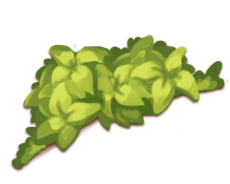
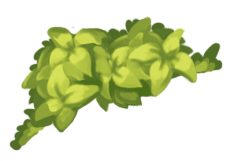
Add leaf shadow layer and rustle SFX to Face I
- Face I: split the moveable leaves' shadow into its own layer that skews half
  as much as the leaves, stacked stone < shadow < engraved 4 < leaves so the
  digit reads as cut into shadowed stone
- Face I: leaf-move rustle SFX on the skew (true pitch on lift, pitched down on
  return), a low-passed cloth foley kept subtle
- Reposition the moveable leaves to the updated PSD bounds
- Re-export the base without the moveable leaves or their shadow; warm both new
  textures before the reveal

Claude-Session: https://claude.ai/code/session_01Q6PLZY4FeeRpwUcSDqktu9

Changed region(s): [[0.0307, 0.0932, 1.0, 0.9317]]

diff --git a/paulmartin.dev/src/machine/faces/FaceI.css b/paulmartin.dev/src/machine/faces/FaceI.css
@@ -84,20 +84,55 @@
 }
 
 /* An engraved "4" cut into the stone behind the leaves, centred on the leaf mass.
-   z-index 1 puts it under the leaves layer (z-index 2), so at rest the foliage
-   covers the digit and only its lower stem pokes out below the leaves; skew the
-   leaves aside and the whole 4 is revealed. Uses the shared .machine-carve etch. */
+   Stacking is stone < shadow (z1) < this engraving (z2) < leaves (z3): the leaf
+   shadow sits under the digit, so the engraving reads as cut into shadowed stone,
+   and at rest the foliage covers the digit with only its lower stem poking out;
+   skew the leaves aside and the whole 4 is revealed. Uses the shared .machine-carve
+   etch, whose translucent fill lets the shadow beneath darken it. */
 .face1-clue4 {
   position: absolute;
   /* Centred on the leaf-mass collider (its centre x ~= 9.7%). */
   left: 10.3%;
   top: 20.55%;
   transform: translateX(-50%);
-  z-index: 1;
+  z-index: 2;
   font-family: var(--display, serif);
   font-weight: 700;
   font-size: calc(var(--face-h) * 0.0612);
   line-height: 1;
+}
+
+/* The leaves' cast shadow, its own layer (lifted out of the base) so it can move.
+   Sits above the stone but below the engraving and the leaves (z1). It skews on the
+   same hover/tap as the leaves but HALF as much, so the shadow trails the foliage
+   instead of staying pinned to the stone while the leaves lift away. NORMAL blend,
+   matching how it composited when it was baked in. */
+.face1-leaves-shadow {
+  position: absolute;
+  left: 0.33%;
+  top: 14.4%;
+  width: 12.637%;
+  height: 18.4%;
+  z-index: 1;
+  pointer-events: none;
+  background: image-set(
+      url('../assets/leaves_shadow.avif') type('image/avif'),
+      url('../assets/leaves_shadow.webp') type('image/webp')
+    ) left top / contain no-repeat;
+  transform-origin: left center;
+  transition: transform 0.55s cubic-bezier(0.34, 1.1, 0.42, 1);
+  will-change: transform;
+}
+
+.face1-leaves-hit:hover ~ .face1-leaves-shadow,
+.face1-leaves-shadow.is-skewed {
+  transform: translateX(-1.25%) skewY(-5.5deg);
+}
+
+@media (prefers-reduced-motion: reduce) {
+  .face1-leaves-shadow {
+    transition-duration: 0.01ms;
+  }
 }
 
 /* Static hit area over the resting leaf mass. It never transforms, so it can't
@@ -106,11 +141,11 @@
    fills only ~35% of its layer box), not the full transparent box. */
 .face1-leaves-hit {
   position: absolute;
-  left: 6.6%;
+  left: 6.7%;
   top: 17.8%;
-  width: 6.2%;
-  height: 9.5%;
-  z-index: 3;
+  width: 5.9%;
+  height: 9.3%;
+  z-index: 4;
   cursor: pointer;
 }
 
@@ -122,11 +157,11 @@
    bare stone beneath. */
 .face1-leaves {
   position: absolute;
-  left: 0.33%;
-  top: 14.4%;
-  width: 12.637%;
-  height: 18.4%;
-  z-index: 2;
+  left: 0.44%;
+  top: 16.2%;
+  width: 12.527%;
+  height: 16.1%;
+  z-index: 3;
   pointer-events: none;
   background: image-set(
       url('../assets/leaves_moveable.avif') type('image/avif'),

diff --git a/paulmartin.dev/src/machine/audio.jsx b/paulmartin.dev/src/machine/audio.jsx
@@ -47,6 +47,9 @@ export const SAMPLES = {
   // Face V arrow-pad press: a muted stone slide, a deep stone thunk seating into
   // place, then a soft return slide.
   pad_press: 'machine/sfx/pad_press.mp3',
+  // Face I leaves brushing aside (a light cloth-foley rustle). Played at true pitch
+  // when they move up/aside and slightly pitched down when they settle back.
+  leaf_move: 'machine/sfx/leaf_move.mp3',
 }
 
 // Sample levels. The jungle bed sits well under the effects.
@@ -73,6 +76,9 @@ const TILE_RATES = [1.0, 1.122, 1.189]
 const CARD_GAIN = 0.35
 // Face V arrow-pad press, a small frequent stone tap, kept quiet and non-fatiguing.
 const PAD_GAIN = 0.42
+// Face I leaf rustle, a subtle decorative accent. The return plays a touch lower.
+const LEAF_GAIN = 0.32
+const LEAF_DOWN_RATE = 0.9
 
 const DEFAULT_AUDIO = {
   playTurn: () => {},
@@ -89,6 +95,7 @@ const DEFAULT_AUDIO = {
   playTileSlide: () => {},
   playCardFlip: () => {},
   playPadPress: () => {},
+  playLeaf: () => {},
   enterIgnition: () => {},
   exitIgnition: () => {},
   muted: true,
@@ -381,6 +388,19 @@ export function AudioProvider({ children }) {
     [armed, muted, s, playBuffer]
   )
 
+  // Face I leaves brushing aside ('up') and settling back ('down'). The return is
+  // pitched down a touch; a small random jitter keeps repeat hovers from sounding
+  // copy-pasted.
+  const playLeaf = useCallback(
+    (direction = 'up') => {
+      if (!armed || muted || !s.ctx) return
+      const base = direction === 'down' ? LEAF_DOWN_RATE : 1
+      const rate = base * (1 + (Math.random() * 2 - 1) * 0.03)
+      playBuffer(s.buffers.leaf_move, { gain: LEAF_GAIN, rate })
+    },
+    [armed, muted, s, playBuffer],
+  )
+
   // Master gain follows mute so EVERYTHING (synths, one-shot samples, and the
   // bed) is silenced the instant you mute, not just newly-triggered sounds. A
   // short ramp avoids a click.
@@ -403,7 +423,7 @@ export function AudioProvider({ children }) {
     else stopJungle()
   }, [armed, muted, ignited, startJungle, stopJungle])
 
-  const value = { playTurn, playIntroSpin, playArtifactBurst, playLidOpen, playPowerup, startGears, stopGears, playMuteClick, playDetailOpen, playDetailClose, playReelSpin, playTileSlide, playCardFlip, playPadPress, enterIgnition, exitIgnition, muted, armed, toggleMute, mute, unmute, arm }
+  const value = { playTurn, playIntroSpin, playArtifactBurst, playLidOpen, playPowerup, startGears, stopGears, playMuteClick, playDetailOpen, playDetailClose, playReelSpin, playTileSlide, playCardFlip, playPadPress, playLeaf, enterIgnition, exitIgnition, muted, armed, toggleMute, mute, unmute, arm }
 
   return (
     <MachineAudioContext.Provider value={value}>

diff --git a/paulmartin.dev/src/machine/faces/FaceI.jsx b/paulmartin.dev/src/machine/faces/FaceI.jsx
@@ -2,6 +2,7 @@ import { useEffect, useRef, useState } from 'react'
 import FaceSurface from '../FaceSurface.jsx'
 import Clue from '../Clue.jsx'
 import { useMachine, faceIndex } from '../Machine.jsx'
+import { useAudio } from '../audio.jsx'
 import { RESUME_URL } from '../model.js'
 import carveStone from '../assets/face1-carve-stone.webp'
 import './FaceI.css'
@@ -10,15 +11,32 @@ const RESUME_WORD = 'resume'
 
 export default function FaceI() {
   const { rotateTo } = useMachine()
+  const { playLeaf } = useAudio()
   // Desktop skews the leaves aside on hover (pure CSS). Touch has no hover, so a
-  // tap skews them, then they settle back on their own after a beat.
+  // tap skews them, then they settle back on their own after a beat. The rustle
+  // plays on the way aside ('up') and on the way back ('down').
   const [leavesSkewed, setLeavesSkewed] = useState(false)
   const leavesTimer = useRef(null)
   useEffect(() => () => clearTimeout(leavesTimer.current), [])
   const nudgeLeaves = () => {
     clearTimeout(leavesTimer.current)
     setLeavesSkewed(true)
-    leavesTimer.current = setTimeout(() => setLeavesSkewed(false), 1800)
+    playLeaf('up')
+    leavesTimer.current = setTimeout(() => {
+      setLeavesSkewed(false)
+      playLeaf('down')
+    }, 1800)
+  }
+  // Mouse hover drives the CSS skew and its rustle; touch fires pointerenter too,
+  // so ignore touch here and let the tap (pointerdown) own the skew + sound.
+  const onLeafEnter = (e) => {
+    if (e.pointerType !== 'touch') playLeaf('up')
+  }
+  const onLeafLeave = (e) => {
+    if (e.pointerType !== 'touch') playLeaf('down')
+  }
+  const onLeafDown = (e) => {
+    if (e.pointerType === 'touch') nudgeLeaves()
   }
 
   return (
@@ -148,9 +166,19 @@ export default function FaceI() {
       <div className="face1-clue4 machine-carve" aria-hidden="true">
         4
       </div>
-      <div className="face1-leaves-hit" aria-hidden="true" onClick={nudgeLeaves} />
+      <div
+        className="face1-leaves-hit"
+        aria-hidden="true"
+        onPointerEnter={onLeafEnter}
+        onPointerLeave={onLeafLeave}
+        onPointerDown={onLeafDown}
+      />
       <div
         className={`face1-leaves${leavesSkewed ? ' is-skewed' : ''}`}
+        aria-hidden="true"
+      />
+      <div
+        className={`face1-leaves-shadow${leavesSkewed ? ' is-skewed' : ''}`}
         aria-hidden="true"
       />
       <h1 className="face1-name">Paul Martin</h1>

diff --git a/paulmartin.dev/src/machine/textures.js b/paulmartin.dev/src/machine/textures.js
@@ -13,6 +13,8 @@ import face1Webp from './assets/face1.webp'
 import face1CarveWebp from './assets/face1-carve-stone.webp'
 import leavesMoveAvif from './assets/leaves_moveable.avif'
 import leavesMoveWebp from './assets/leaves_moveable.webp'
+import leavesShadowAvif from './assets/leaves_shadow.avif'
+import leavesShadowWebp from './assets/leaves_shadow.webp'
 import stone02Avif from './assets/stone_face_02.avif'
 import stone02Webp from './assets/stone_face_02.webp'
 import bg03Avif from './assets/background_face_03.avif'
@@ -53,6 +55,7 @@ export const REVEAL_TEXTURES = [
   pair(face1Avif, face1Webp),
   face1CarveWebp,
   pair(leavesMoveAvif, leavesMoveWebp),
+  pair(leavesShadowAvif, leavesShadowWebp),
 ]
 
 // Every other drum-surface texture: the stone under faces II-V and the
